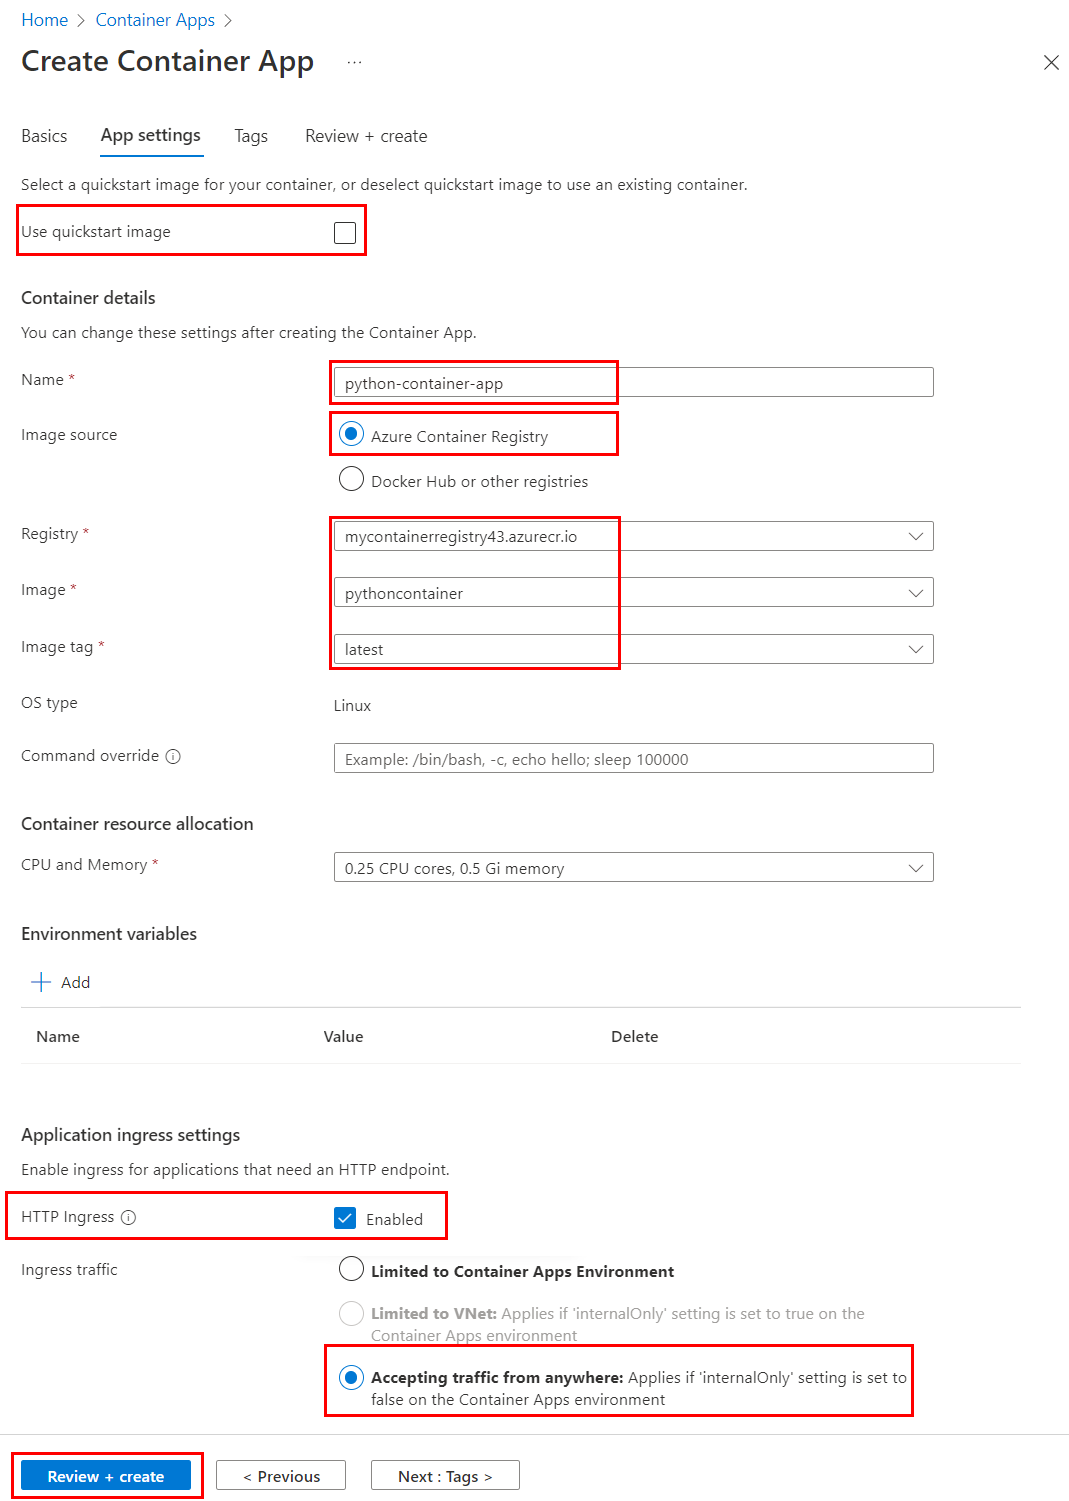
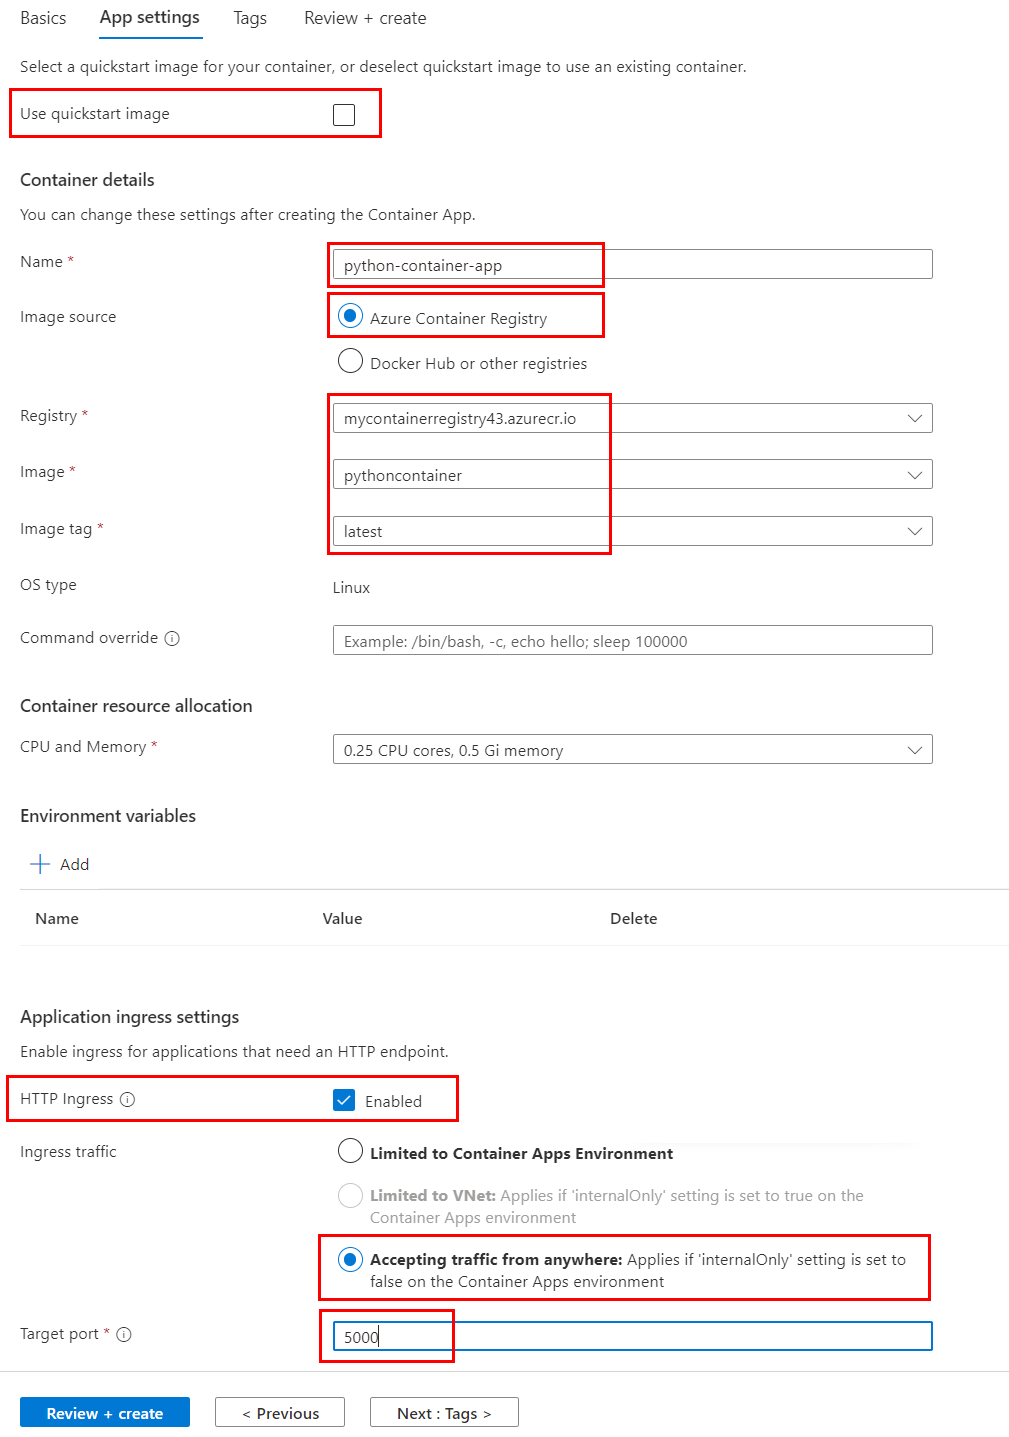
Redo image

diff --git a/articles/python/tutorial-deploy-python-web-app-azure-container-apps-02.md b/articles/python/tutorial-deploy-python-web-app-azure-container-apps-02.md
@@ -517,7 +517,7 @@ Container apps are deployed to Container Apps *environments*, which act as a sec
         * **Image tag** &rarr; Select *latest*.        
         * **HTTP Ingress** &rarr;  Select checkbox (enabled).        
         * **Ingress traffic** &rarr; Select **Accepting traffic from anywhere**.        
-        * **Target port**&rarr; Set to 8000 (Django) or 5000 (Flask).
+        * **Target port**&rarr; Set to 8000 for Django or 5000 for Flask.
         
         Select **Review and create** to go to review page.
 
